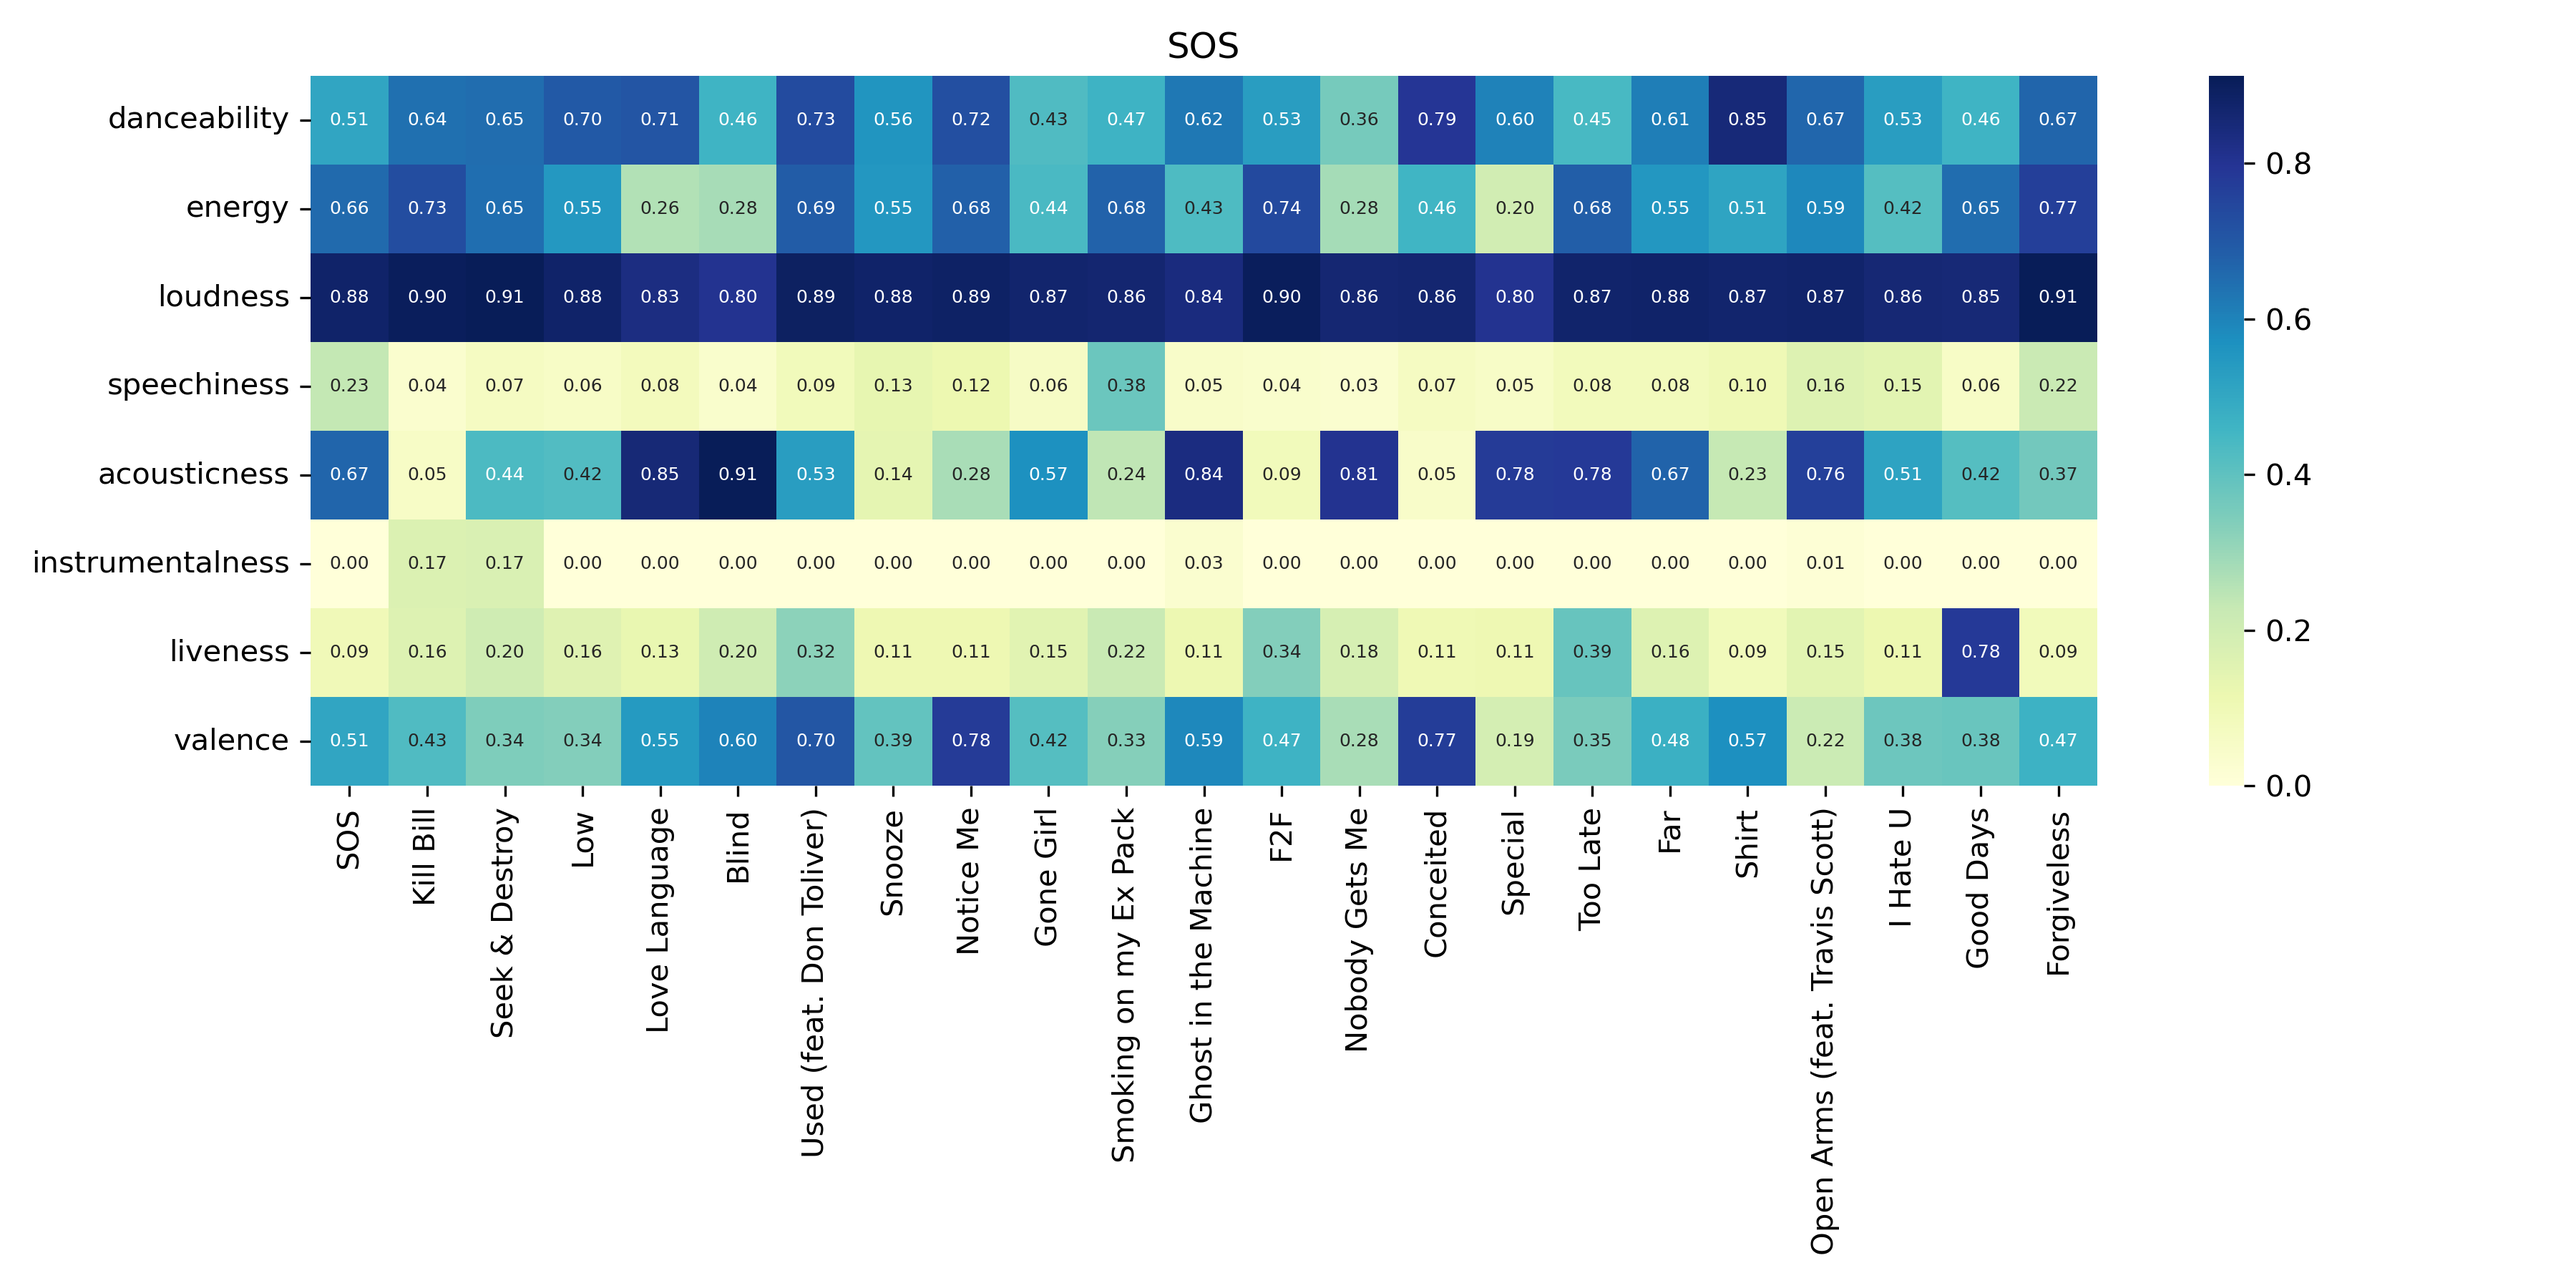
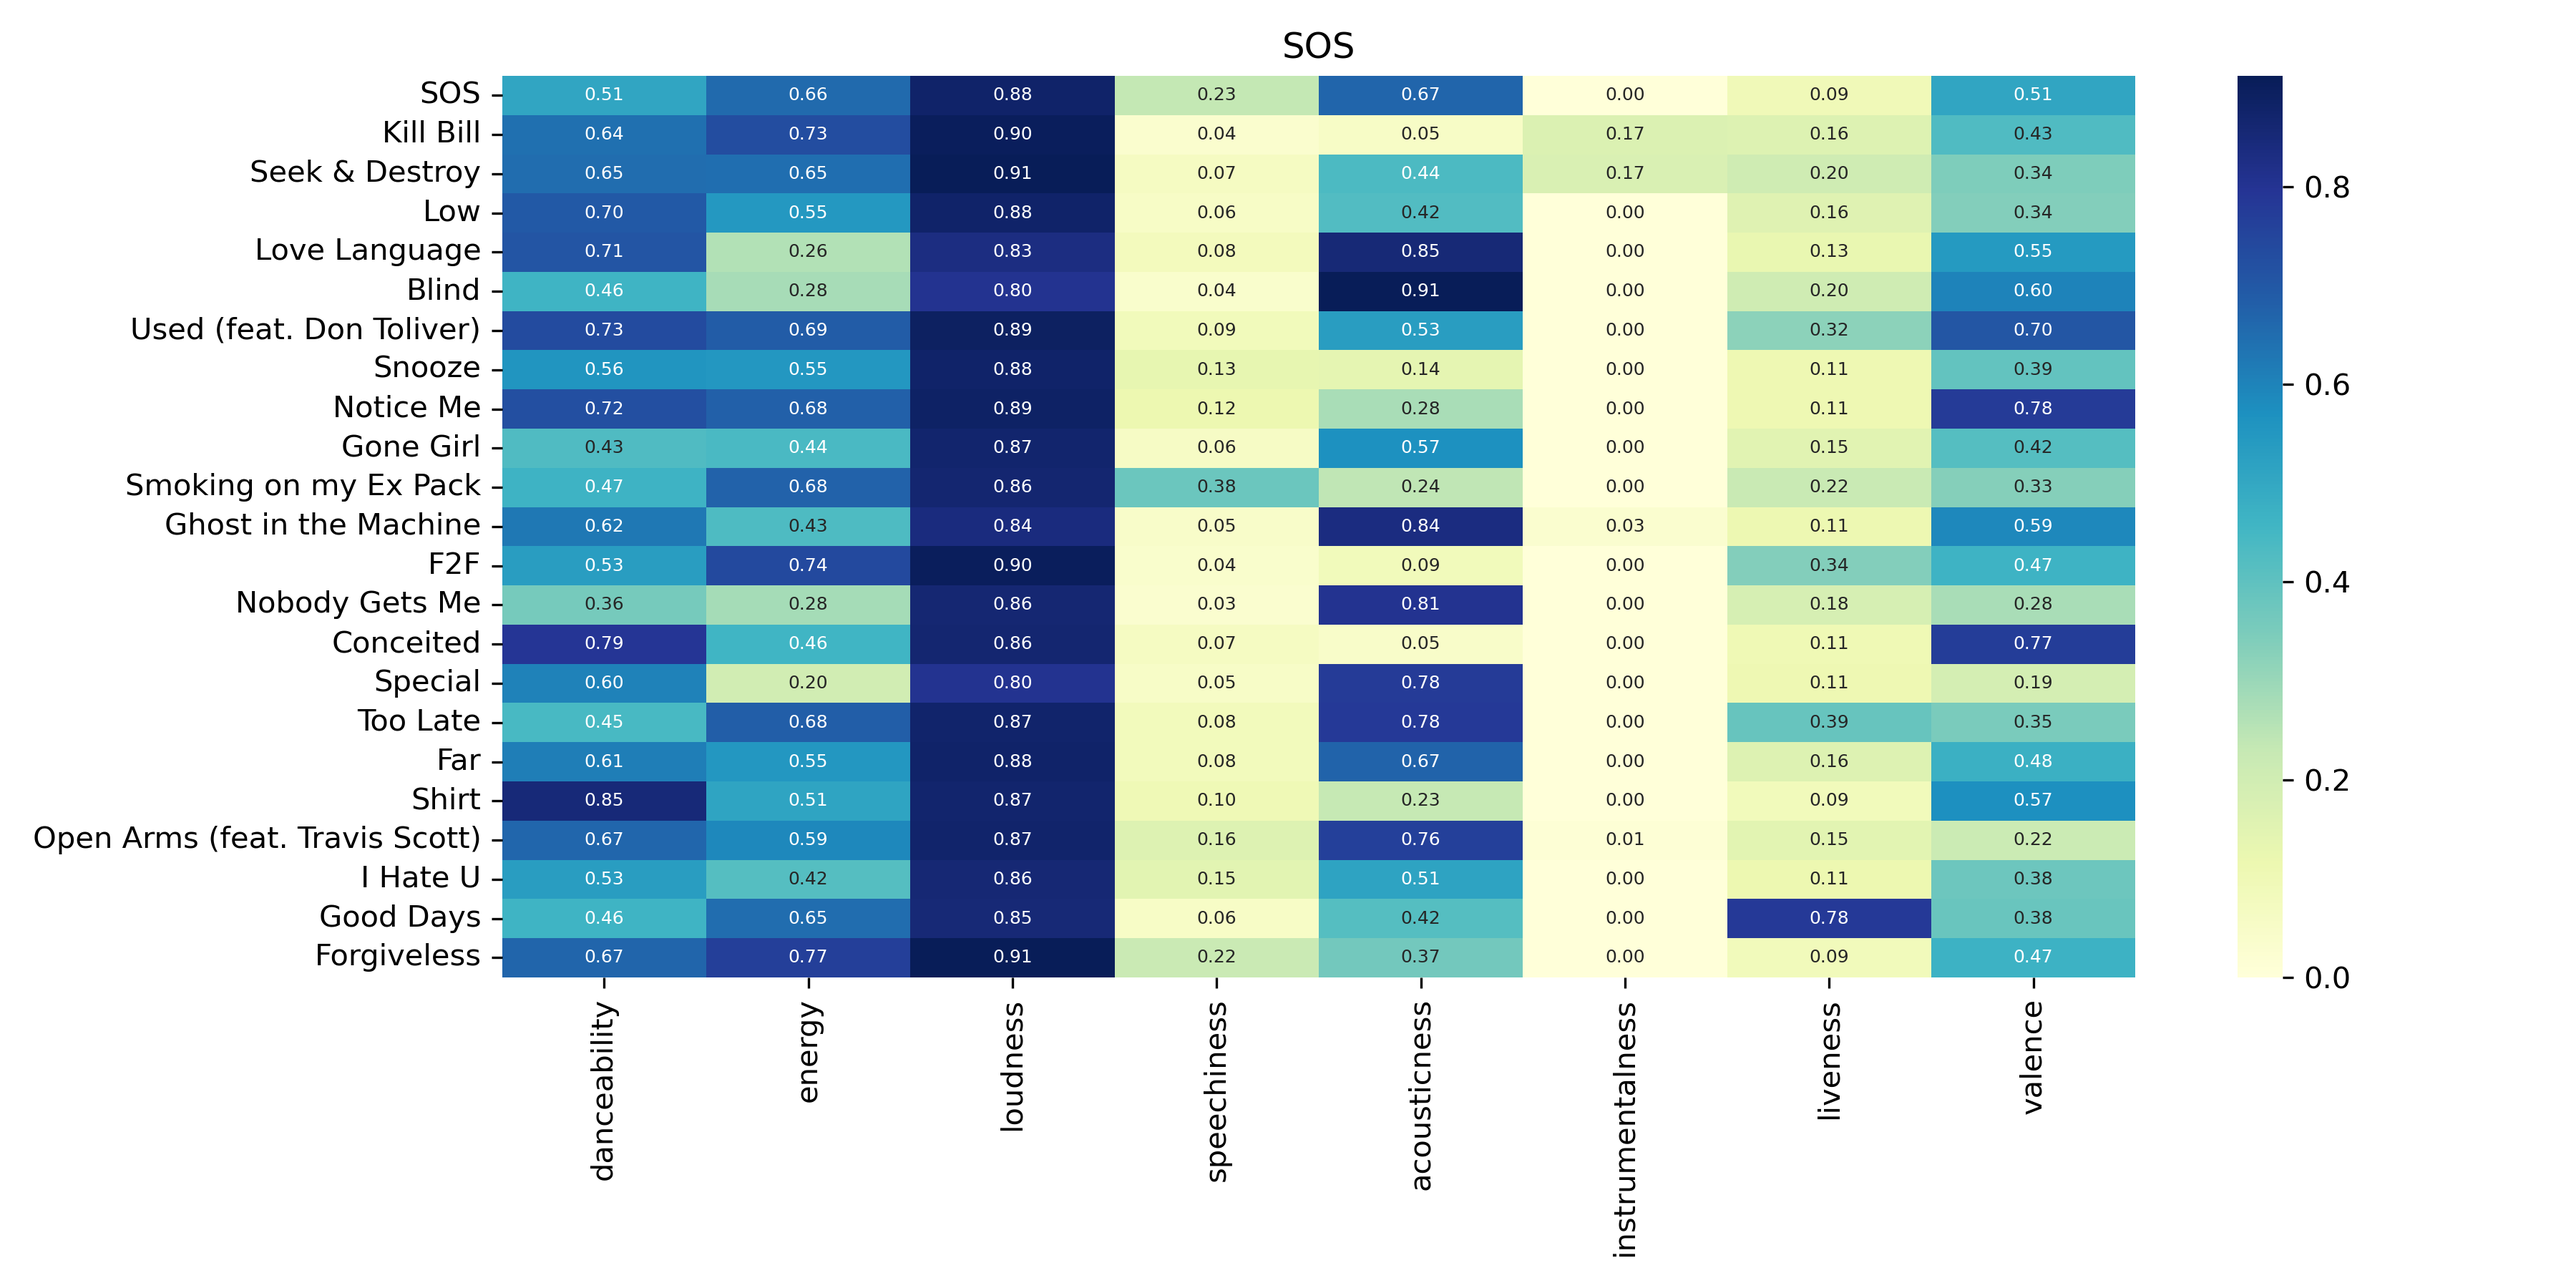
Changed DataFrame to follow tidy data principles.
Columns are variables, rows are observations, every cell is a single value.

diff --git a/spotipy_project.py b/spotipy_project.py
@@ -96,6 +96,9 @@ def main():
     # Convert the dictionary to a DataFrame for Seaborn
     df = pd.DataFrame(album_features)
 
+    # Transpose DataFrame so that the columns (track names) become rows
+    df = df.T
+
     # Create a heatmap using Seaborn
     # Set the figure size
     plt.figure(figsize=(12, 6))
